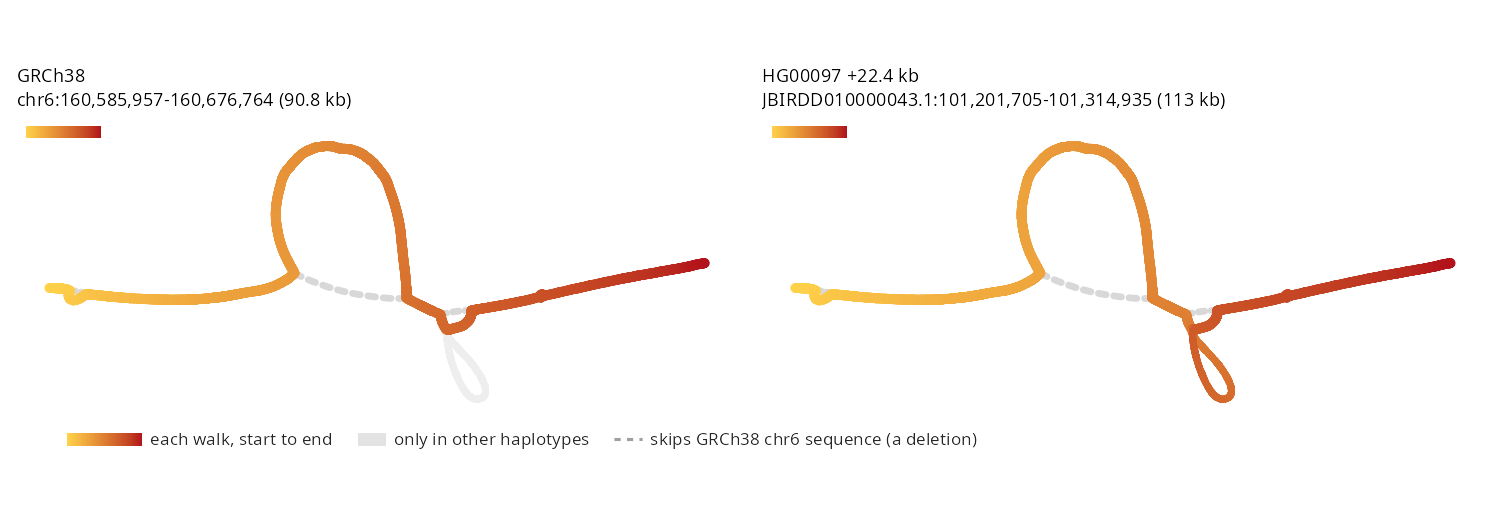
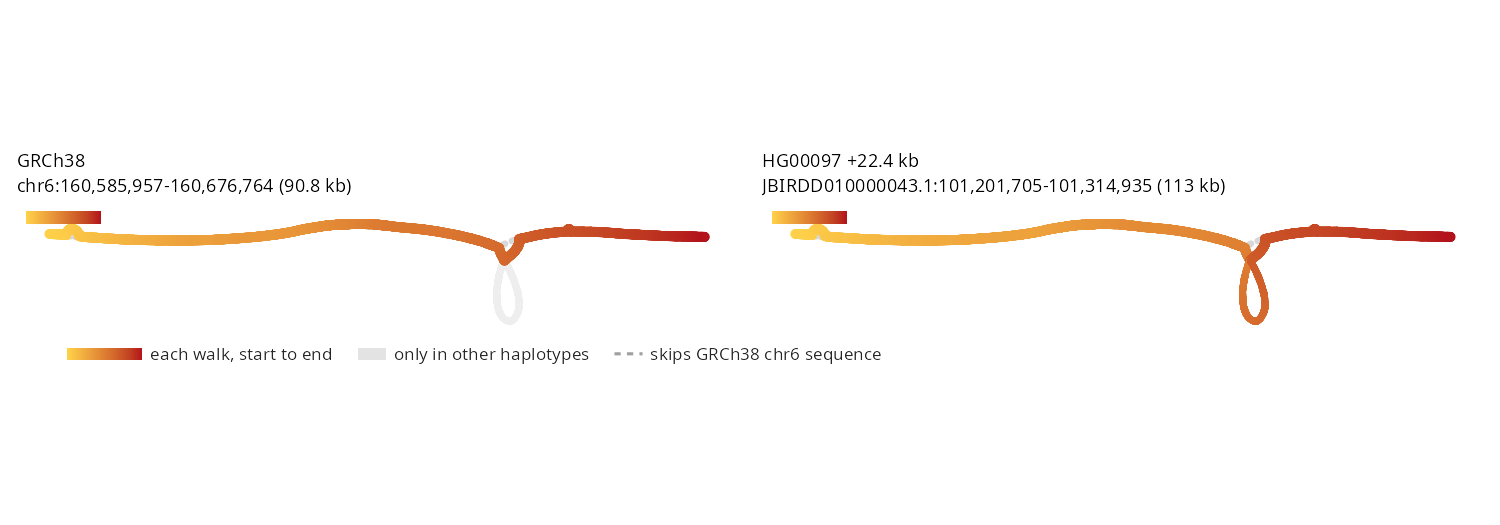
Redraw three gallery figures main's core-13 bundle changed, and say what they now show
kiv2_walks, own_colours and syng_overlay were last drawn on core 11 and the
format-3 walk file. The KIV-2 loop that neither walk took came from links
of walks the cut no longer reads. own_colours and syng_overlay move only by
antialiasing.

amylase_rows keeps its earlier drawing: core 13's walk rows label
HG00097#1's 30 kb departure as outside the extracted subgraph, though its
departure record holds those steps.

diff --git a/docs/gallery.md b/docs/gallery.md
@@ -413,7 +413,7 @@ ggplot(g) +
 
 `chr6:160,616,004-160,646,753`
 
-![Force-directed layout of the KIV-2 array cut from the walk file for HG00097, GRCh38 and HG00097 each lifted in a separate panel and shaded yellow to red along its length: HG00097 walks one 22 kb loop that GRCh38 skips, and a grey dashed link that neither walk takes skips the loop at the top. The panel titles give HG00097 113 kb and GRCh38 90.8 kb, each span the region plus 30 kb of flank either side, and a key below the panels names the shading, the faded nodes and the dashes](../gallery/kiv2_walks.png)
+![Force-directed layout of the KIV-2 array cut from the walk file for HG00097, GRCh38 and HG00097 each lifted in a separate panel and shaded yellow to red along its length: HG00097 walks one 22 kb loop that GRCh38 skips, drawn faded in GRCh38's panel, and a short grey dashed link at the loop's base skips GRCh38 sequence that both walks take. The panel titles give HG00097 113 kb and GRCh38 90.8 kb, each span the region plus 30 kb of flank either side, and a key below the panels names the shading, the faded nodes and the dashes](../gallery/kiv2_walks.png)
 
 ```r
 library(ggbandage)
